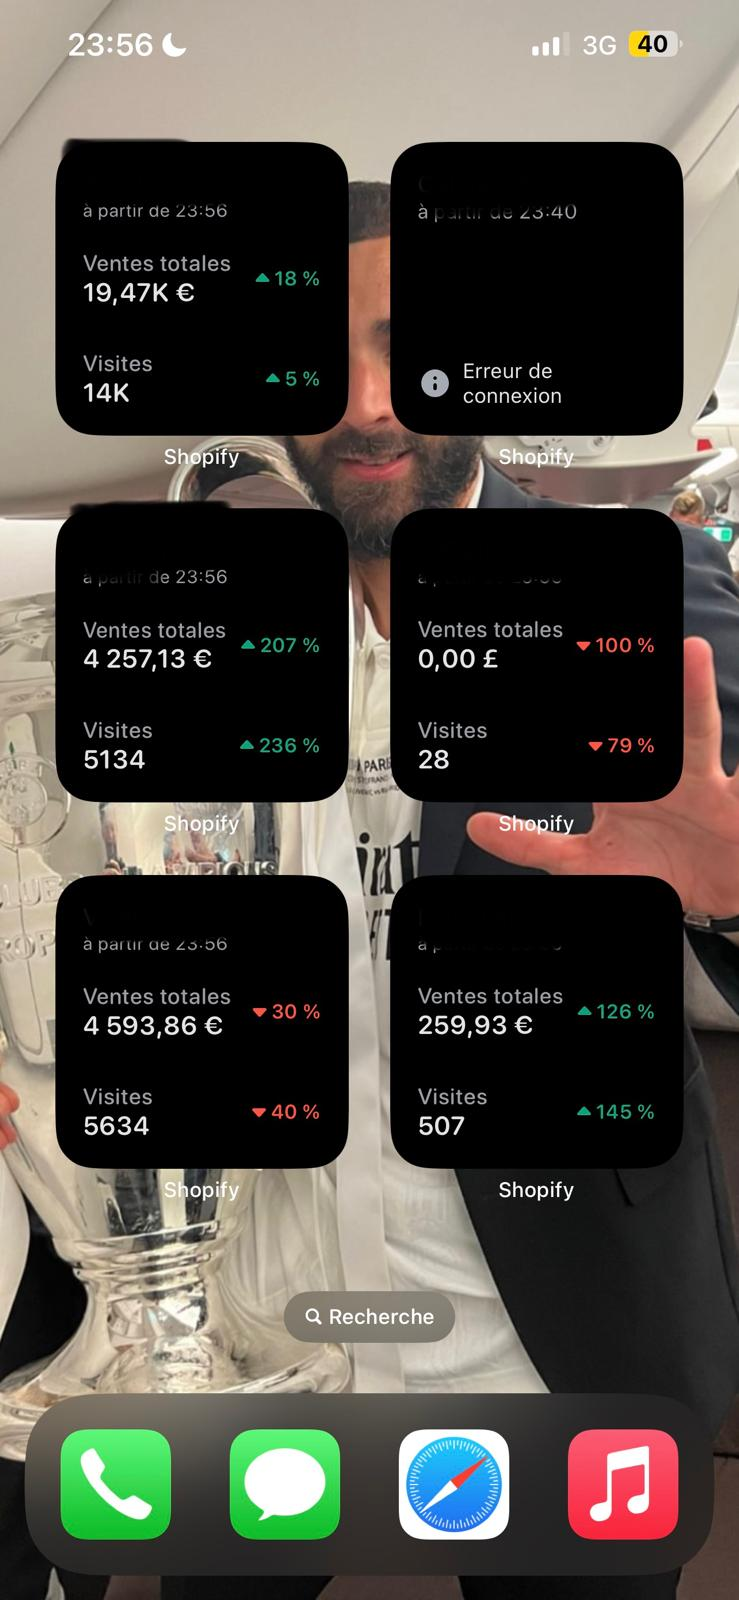
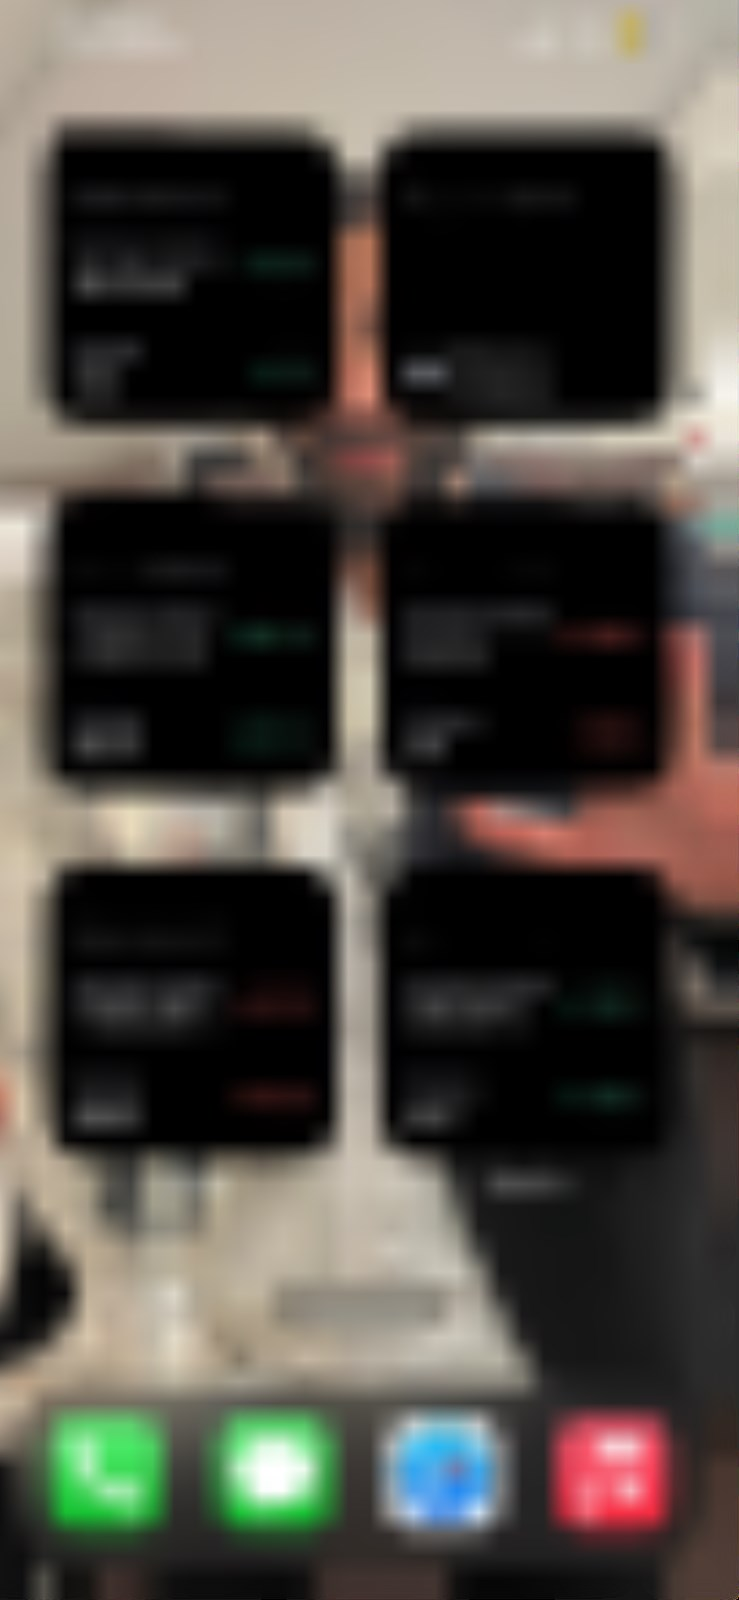
privacy/cleanup: remove tool list, blur face in screenshot, drop name labels and wayback links

diff --git a/index.html b/index.html
@@ -79,7 +79,6 @@
       <h3>Closed / Sold Website — Thericy</h3>
       <p><strong>Overview:</strong> [what the site was, traffic/niche, timeline]</p>
       <p><strong>Outcome:</strong> [closed, sold, or transitioned — and why]</p>
-      <p><a href="https://web.archive.org/web/20220820002845/https://thericy.com/products/robe?variant=42862345388272" target="_blank" rel="noopener">View archived site (Wayback Machine)</a></p>
       <div class="frame case-study-frame">
         <img src="assets/screenshots/thericy-product-page.jpg" alt="Thericy product page: Robe d'été 2-en-1 listing">
       </div>
@@ -90,11 +89,10 @@
       <h3>Closed / Sold Website — Zalvori</h3>
       <p><strong>Overview:</strong> [what the site was, traffic/niche, timeline]</p>
       <p><strong>Outcome:</strong> [closed, sold, or transitioned — and why]</p>
-      <p><a href="https://web.archive.org/web/20230430213208/https://zalvori.com/" target="_blank" rel="noopener">View archived site (Wayback Machine)</a></p>
       <div class="frame case-study-frame">
         <img src="assets/screenshots/zalvori-render.png" alt="Zalvori homepage: bestseller footwear collection">
       </div>
-      <p class="note">Homepage snapshot (archived <a href="https://web.archive.org/web/20230502215432/http://zalvori.com/" target="_blank" rel="noopener">May 2023</a>)</p>
+      <p class="note">Homepage snapshot</p>
     </article>
 
   </section>
@@ -149,37 +147,25 @@
 
   <section id="toolstack">
     <h2>Tool Stack</h2>
-    <p>Platforms and tools used to run, track, and prove out these campaigns.</p>
-    <ul class="tool-list">
-      <li><strong>Shopify</strong> — storefronts, checkout, and revenue/analytics dashboards</li>
-      <li><strong>TikTok Shop</strong> — campaign creation and affiliate/creator commerce</li>
-      <li><strong>Meta Ads Manager</strong> — ad spend, conversions, and campaign performance tracking</li>
-      <li><strong>AdSpy</strong> — competitor and creative research, product page capture</li>
-      <li><strong>Wayback Machine</strong> — archiving proof of closed/sold web properties</li>
-    </ul>
 
     <h3>Content Generation Tools</h3>
     <div class="logo-marquee">
       <div class="logo-marquee-track">
-        <div class="logo-badge"><img src="assets/logos/freepik.svg" alt="Freepik logo"><span>Freepik</span></div>
-        <div class="logo-badge logo-badge-text"><span>Pody.AI</span></div>
-        <div class="logo-badge"><img src="assets/logos/gemini.svg" alt="Google Gemini logo"><span>Gemini</span></div>
-        <div class="logo-badge logo-badge-text"><span>Google Veo</span></div>
-        <div class="logo-badge"><img src="assets/logos/claude.svg" alt="Claude (Anthropic) logo"><span>Claude</span></div>
-        <div class="logo-badge"><img src="assets/logos/chatgpt.svg" alt="ChatGPT (OpenAI) logo"><span>ChatGPT</span></div>
-        <div class="logo-badge"><img src="assets/logos/google-suite.svg" alt="Google Suite logo"><span>Google Suite</span></div>
-        <div class="logo-badge"><img src="assets/logos/google-analytics.svg" alt="Google Analytics logo"><span>Google Analytics</span></div>
-        <div class="logo-badge"><img src="assets/logos/microsoft-365.svg" alt="Microsoft 365 logo"><span>Microsoft 365</span></div>
+        <div class="logo-badge"><img src="assets/logos/freepik.svg" alt="Freepik logo"></div>
+        <div class="logo-badge"><img src="assets/logos/gemini.svg" alt="Google Gemini logo"></div>
+        <div class="logo-badge"><img src="assets/logos/claude.svg" alt="Claude (Anthropic) logo"></div>
+        <div class="logo-badge"><img src="assets/logos/chatgpt.svg" alt="ChatGPT (OpenAI) logo"></div>
+        <div class="logo-badge"><img src="assets/logos/google-suite.svg" alt="Google Suite logo"></div>
+        <div class="logo-badge"><img src="assets/logos/google-analytics.svg" alt="Google Analytics logo"></div>
+        <div class="logo-badge"><img src="assets/logos/microsoft-365.svg" alt="Microsoft 365 logo"></div>
         <!-- duplicate set for seamless infinite loop -->
-        <div class="logo-badge" aria-hidden="true"><img src="assets/logos/freepik.svg" alt="" ><span>Freepik</span></div>
-        <div class="logo-badge logo-badge-text" aria-hidden="true"><span>Pody.AI</span></div>
-        <div class="logo-badge" aria-hidden="true"><img src="assets/logos/gemini.svg" alt=""><span>Gemini</span></div>
-        <div class="logo-badge logo-badge-text" aria-hidden="true"><span>Google Veo</span></div>
-        <div class="logo-badge" aria-hidden="true"><img src="assets/logos/claude.svg" alt=""><span>Claude</span></div>
-        <div class="logo-badge" aria-hidden="true"><img src="assets/logos/chatgpt.svg" alt=""><span>ChatGPT</span></div>
-        <div class="logo-badge" aria-hidden="true"><img src="assets/logos/google-suite.svg" alt=""><span>Google Suite</span></div>
-        <div class="logo-badge" aria-hidden="true"><img src="assets/logos/google-analytics.svg" alt=""><span>Google Analytics</span></div>
-        <div class="logo-badge" aria-hidden="true"><img src="assets/logos/microsoft-365.svg" alt=""><span>Microsoft 365</span></div>
+        <div class="logo-badge" aria-hidden="true"><img src="assets/logos/freepik.svg" alt=""></div>
+        <div class="logo-badge" aria-hidden="true"><img src="assets/logos/gemini.svg" alt=""></div>
+        <div class="logo-badge" aria-hidden="true"><img src="assets/logos/claude.svg" alt=""></div>
+        <div class="logo-badge" aria-hidden="true"><img src="assets/logos/chatgpt.svg" alt=""></div>
+        <div class="logo-badge" aria-hidden="true"><img src="assets/logos/google-suite.svg" alt=""></div>
+        <div class="logo-badge" aria-hidden="true"><img src="assets/logos/google-analytics.svg" alt=""></div>
+        <div class="logo-badge" aria-hidden="true"><img src="assets/logos/microsoft-365.svg" alt=""></div>
       </div>
     </div>
   </section>

diff --git a/assets/style.css b/assets/style.css
@@ -85,15 +85,6 @@ section h2 {
   color: var(--muted);
 }
 
-.tool-list { list-style: none; padding: 0; }
-.tool-list li {
-  padding: 0.6rem 0.9rem;
-  margin-bottom: 0.5rem;
-  background: var(--surface);
-  border: 1px solid var(--border);
-  border-radius: 6px;
-}
-
 .case-study {
   background: var(--surface);
   border: 1px solid var(--border);
@@ -305,27 +296,20 @@ section h2 {
 .logo-badge {
   display: flex;
   align-items: center;
-  gap: 0.9rem;
-  font-size: 1.3rem;
-  font-weight: 600;
-  color: var(--text);
-  padding: 1.25rem 2.5rem;
+  justify-content: center;
+  padding: 1.5rem;
   background: #0b0d11;
   border: 1px solid var(--border);
   border-radius: 8px;
-  min-width: 220px;
-  justify-content: center;
+  width: 140px;
+  height: 90px;
   flex: none;
 }
 
 .logo-badge img {
-  width: 40px;
-  height: 40px;
+  width: 48px;
+  height: 48px;
   filter: brightness(0) invert(1);
-}
-
-.logo-badge-text {
-  min-height: 40px;
 }
 
 .note { color: var(--muted); font-size: 0.85rem; }
